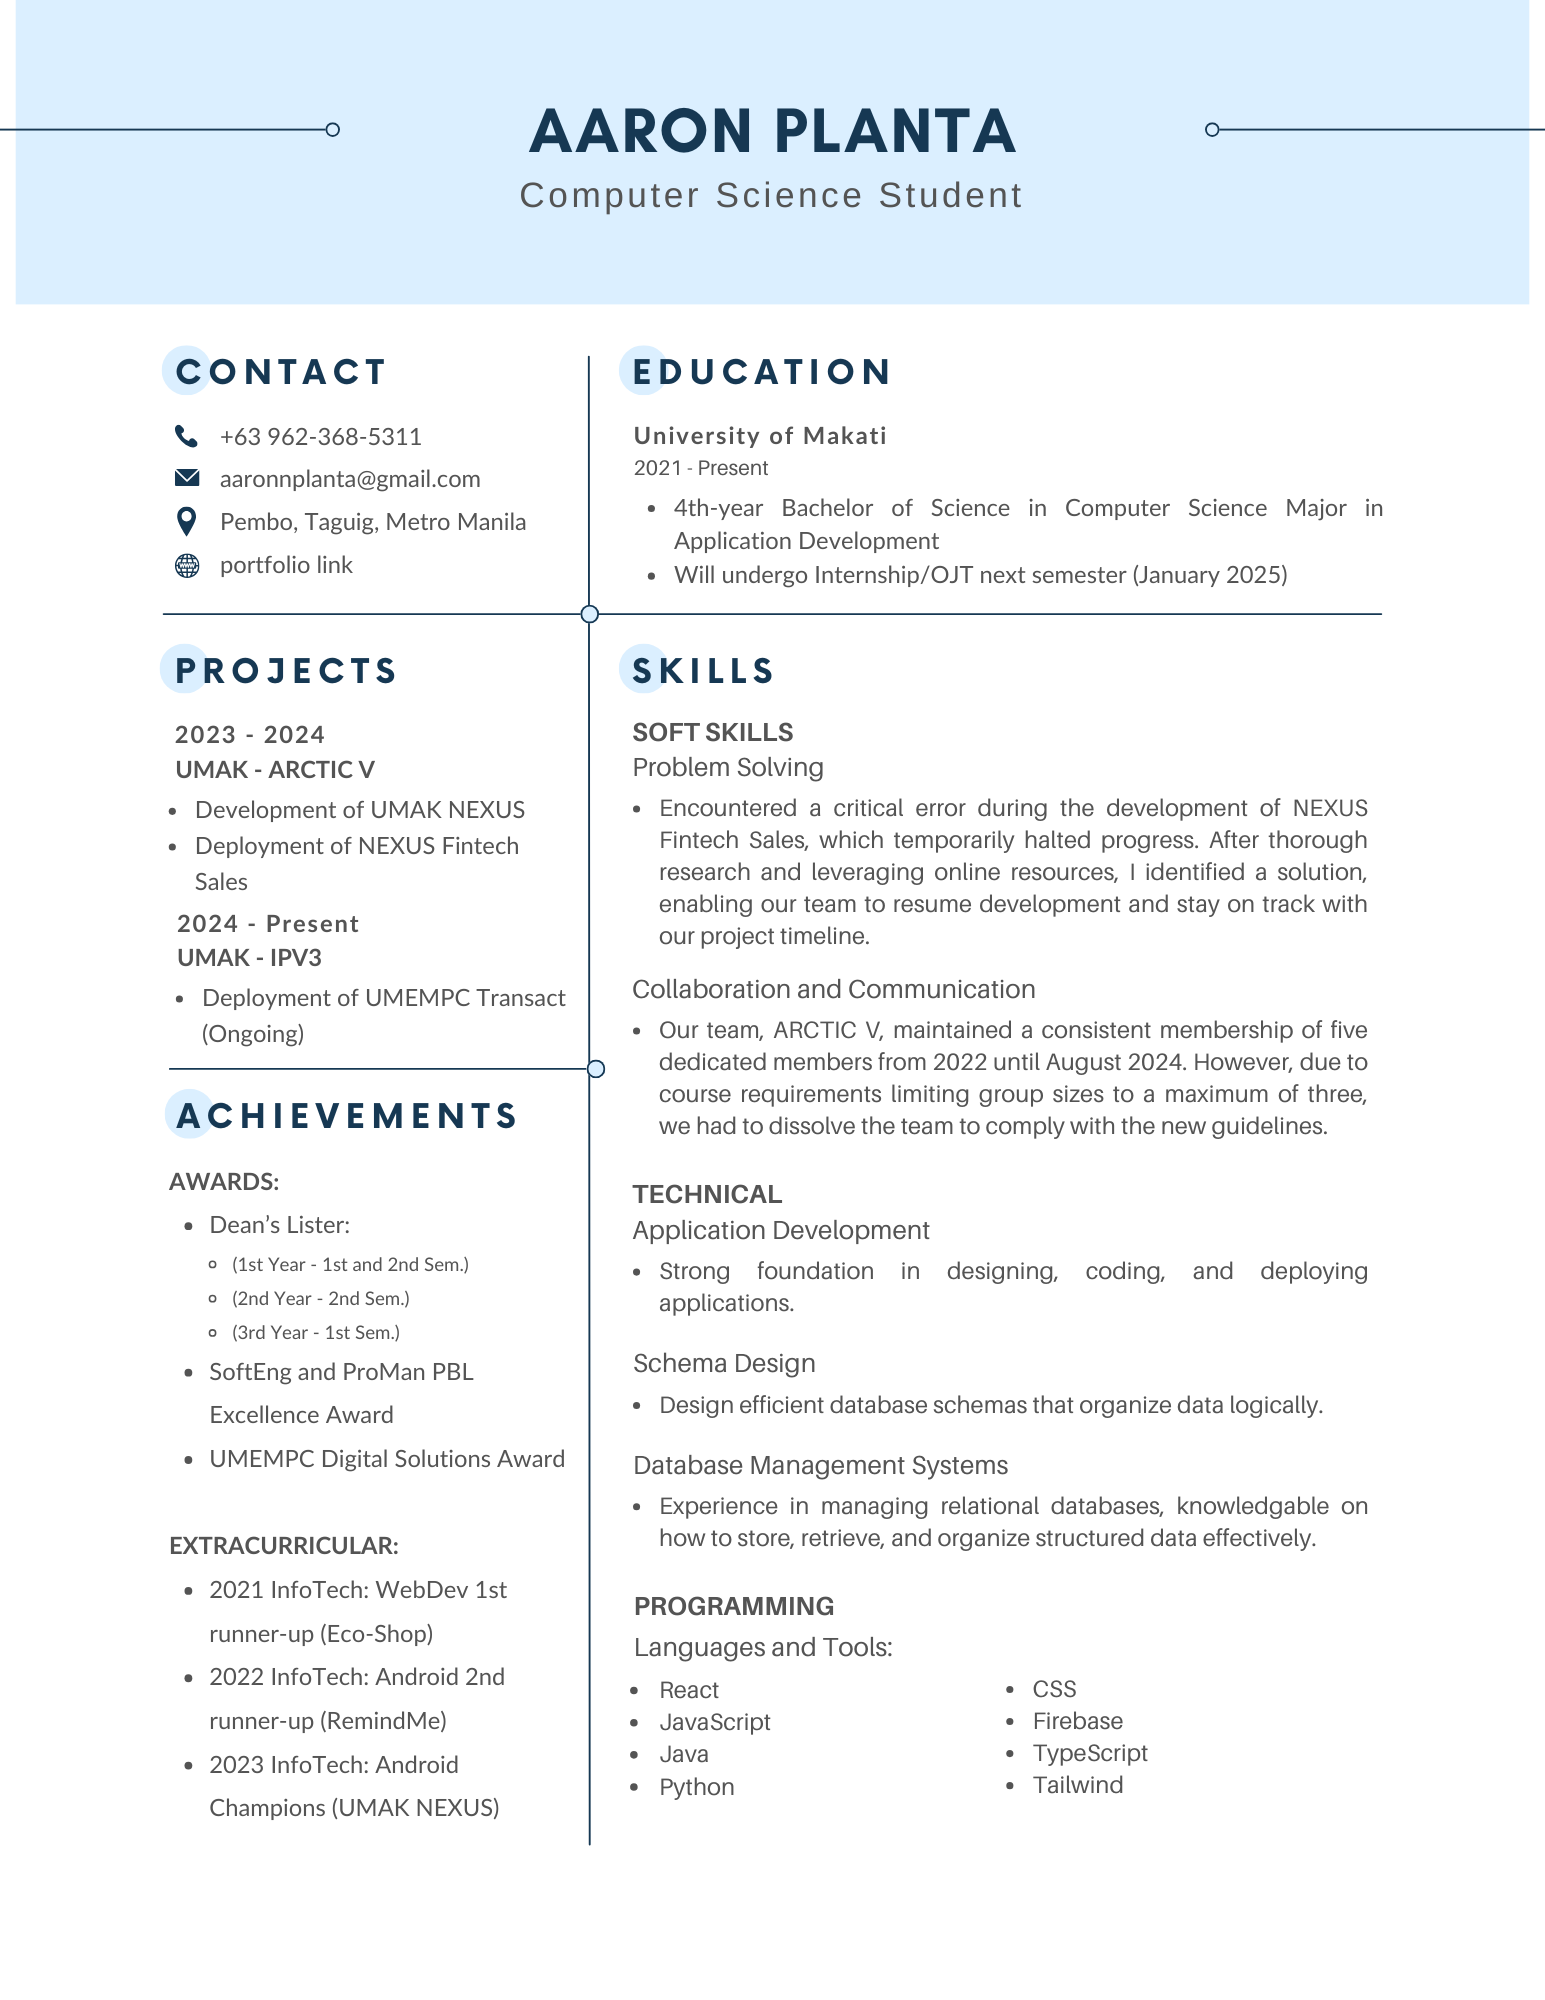
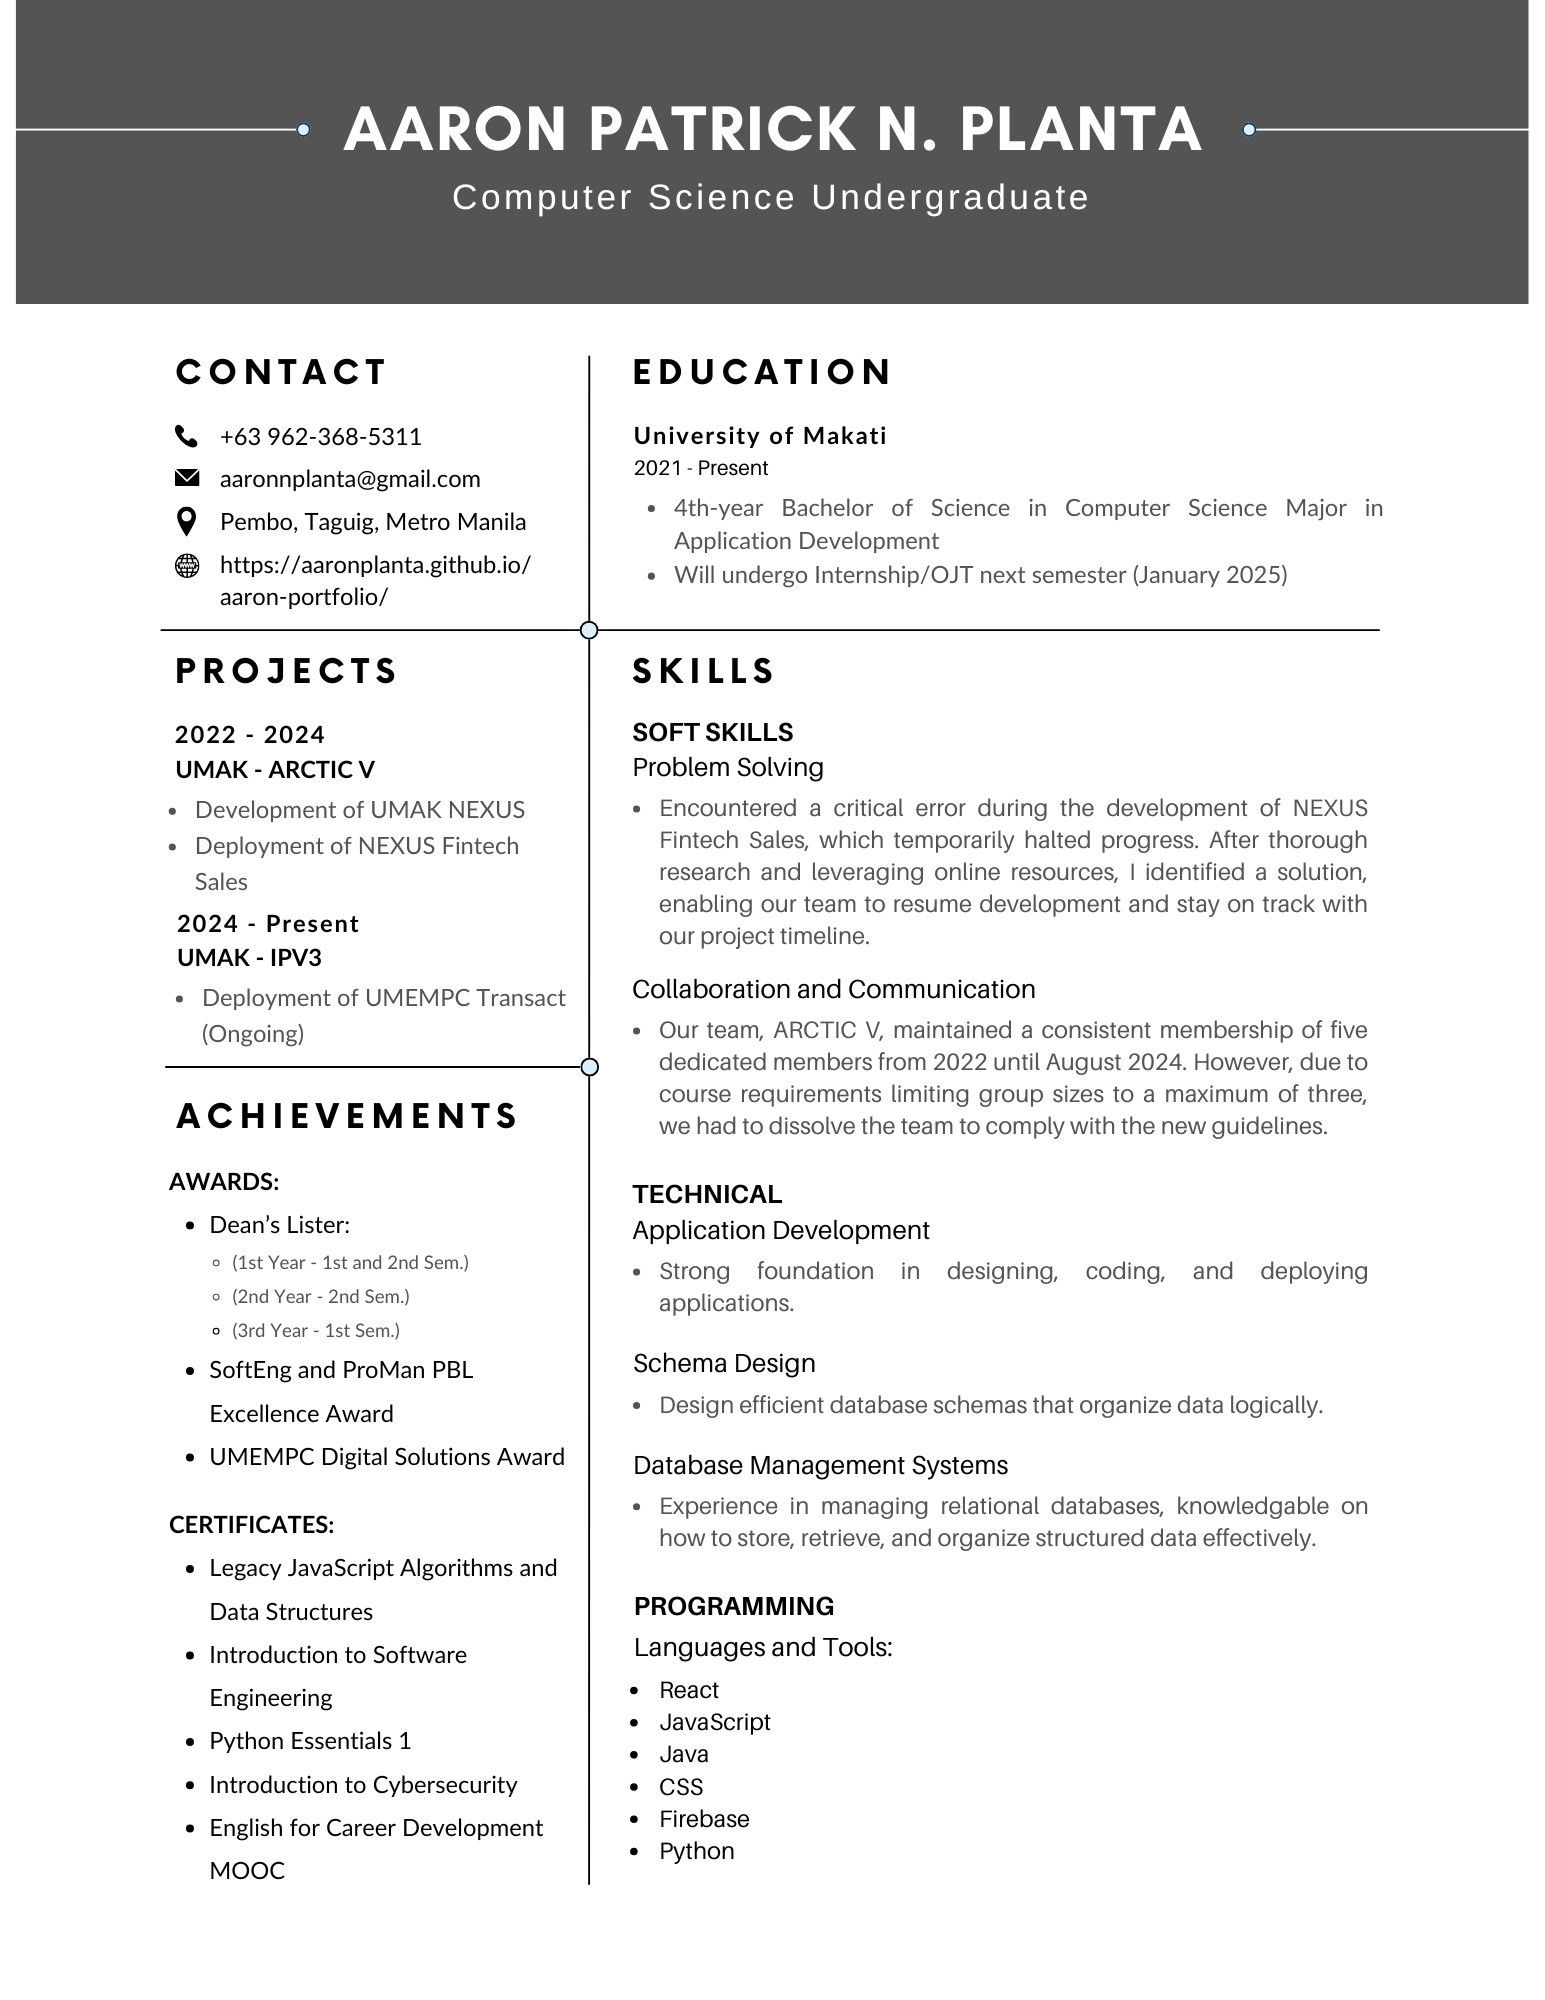
updated title and uploaded certs

diff --git a/src/components/AboutMeV2.js b/src/components/AboutMeV2.js
@@ -9,11 +9,11 @@ import androidlogo from '../images/android-logo.png'
 import firebaselogo from '../images/firebase-logo.png'
 import tailwindlogo from '../images/tailwind-logo.png'
 import resume from '../images/Planta-Resume_Updated.png'
-import cert1 from '../images/cert1.png'
-import cert2 from '../images/cert2.jpg'
-import cert3 from '../images/cert3.png'
-import cert4 from '../images/cert4.png'
-import cert5 from '../images/cert5.png'
+import cert2 from '../images/cert1.png'
+import cert3 from '../images/cert2.jpg'
+import cert4 from '../images/mooc-cert.png'
+import cert1 from '../images/js-cert.png'
+import cert5 from '../images/ibm-cert.png'
 
 export default function AboutMeV2() {
 
@@ -160,20 +160,26 @@ export default function AboutMeV2() {
                             {selectedCategory === 'CERTIFICATES1' && 
                             <div className="cert-content">
                                 <img src={cert1} />
+                                <img src={cert5} />
                                 <img src={cert2} />
-                                {/* <img src={cert3} />
+                                <img src={cert3} />
                                 <img src={cert4} />
-                                <img src={cert5} /> */}
                             </div>}
                             {selectedCategory === 'RESUME1' && 
                             <div className="resume-container">
-                                <div className="resume-content" onClick={handleZoomResume}>
-                                    {/* VIEW<br></br>
-                                    RESUME */}
-                                </div>
-                                <div className="resume-content" onClick={handleZoomCV}>
-                                    {/* VIEW<br></br>
-                                    CV */}
+                                <div className="resume-content" onClick={handleZoomResume} />
+                                {/* <div className="resume-content" onClick={handleZoomCV} /> */}
+                                <div className="resume-text">
+                                    <h2>👋 Hi! I'm Aaron,</h2>
+                                    <p>A graduating Computer Science student specializing in Application Development. 
+                                    I consider myself an easy-going individual who enjoys taking on challenges, solving 
+                                    problems, and continuously learning new things. While I have a lighthearted and humorous 
+                                    personality, I always ensure professionalism when it's time to work.</p>
+                                    <h2>📋 What to expect:</h2>
+                                    <p>A dedicated and reliable team member eager to complete tasks with excellence. You can 
+                                        expect quality results, as I take my responsibilities seriously and pay close 
+                                        attention to every detail. I am open to learning and receptive to feedback, always seeking 
+                                        opportunities for growth to continuously improve and excel in my role.</p>
                                 </div>
                             </div>
                             }

diff --git a/src/css/about_me_v2.css b/src/css/about_me_v2.css
@@ -229,9 +229,8 @@ button.not-selected:hover {
 
 .educ-content,
 .skills-content,
-.goals-content,
-.cert-content,
-.resume-content {
+.goals-content, 
+.cert-content {
     height: 100%;
 }
 
@@ -252,6 +251,7 @@ button.not-selected:hover {
 .resume-container {
     display: flex;
     gap: 2%;
+    height: 100%;
 }
 
 .resume-content {
@@ -263,7 +263,7 @@ button.not-selected:hover {
     font-weight: 700;
     text-align: center;
     text-shadow: 2px 2px 5px rgba(0, 0, 0, 0.5);
-    height: 450px;
+    height: 95%;
     width: 50%;
     display: flex;
     justify-content: center;
@@ -271,6 +271,11 @@ button.not-selected:hover {
     cursor: zoom-in;
     border-radius: 15px;
     border: 1px solid #E0F0E1;
+}
+
+.resume-text {
+    height: 450px;
+    width: 50%;
 }
 
 .educ-content p {
@@ -295,7 +300,7 @@ button.not-selected:hover {
 .cert-content {
     display: flex;
     flex-direction: column;
-    width: 70%;
+    width: 90%;
     gap: 5px ;
     overflow-y: scroll;
     scrollbar-width: none;
@@ -312,9 +317,9 @@ button.not-selected:hover {
         gap: 10px;
     }
 
-    .resume-content {
+    .resume-content, .resume-text {
         height: 220px;
-        width: 70%;
+        width: 100%;
     }
 
     .category-content {
@@ -384,21 +389,20 @@ button.not-selected:hover {
     }
 
     .resume-container {
-        display: flex;
-        justify-content: center;
+        /* justify-content: center; */
         align-items: center;
+        height: auto;
     }
 
     .resume-content {
-        width: 60%;
+        /* width: 60%; */
         margin-bottom: 2%;
     }
 
-    
     .cert-content {
-        margin-inline: 15%;
         margin-bottom: 2%;
-        height: 250px;
+        height: 500px;
+        width: 100%;
     }
 }
 
@@ -424,8 +428,8 @@ button.not-selected:hover {
         margin-bottom: 15px;
     }
     
-    .resume-content {
-        height: 100px;
+    .resume-container {
+        height: 490px;
     }
 
     .about-container h1 {

diff --git a/src/components/Contact.js b/src/components/Contact.js
@@ -30,7 +30,11 @@ export default function Contact() {
                 </div>
                 <div className="social">
                     <div className="details-icons">
-                        <a href="https://www.facebook.com/aaronpatrick.planta" target="_blank">
+                        <a 
+                            href="https://mail.google.com/mail/?view=cm&fs=1&to=aaronnplanta@gmail.com"
+                            target="_blank"
+                            rel="noopener noreferrer"
+                        >
                             <img src={facebook} />
                         </a>    
                         <a href="https://www.linkedin.com/in/aaron-patrick-planta-72b853336" target="_blank">                    

diff --git a/src/App.js b/src/App.js
@@ -97,8 +97,9 @@ function App() {
         <Header />
         <div className="intro">
         {/* <div className="intro" ref={introRef}> */}
-          <h1>ASPIRING SOFTWARE ENGINEER AND DB ADMINISTRATOR</h1>
-          <p>Aaron Patrick N. Planta<br></br>Makati, Philippines</p>
+          {/* <h1>ASPIRING SOFTWARE ENGINEER AND DB ADMINISTRATOR</h1> */}
+          <h1>ASPIRING SOFTWARE ENGINEER AND APPLICATION DEVELOPER</h1>
+          <p>Aaron Patrick N. Planta<br></br>Taguig, Philippines</p>
           <div>
             <button onClick={showMessage}>Leave A Message</button>
           </div>

diff --git a/src/css/projects.css b/src/css/projects.css
@@ -300,6 +300,14 @@ a {
     .github p {
         font-size: 10px;
     }
+
+    .left-right {
+        margin: 0;
+    }
+
+    .animated-div {
+        width: 100%;
+    }
 }
 
 @media (max-width: 600px) { 
